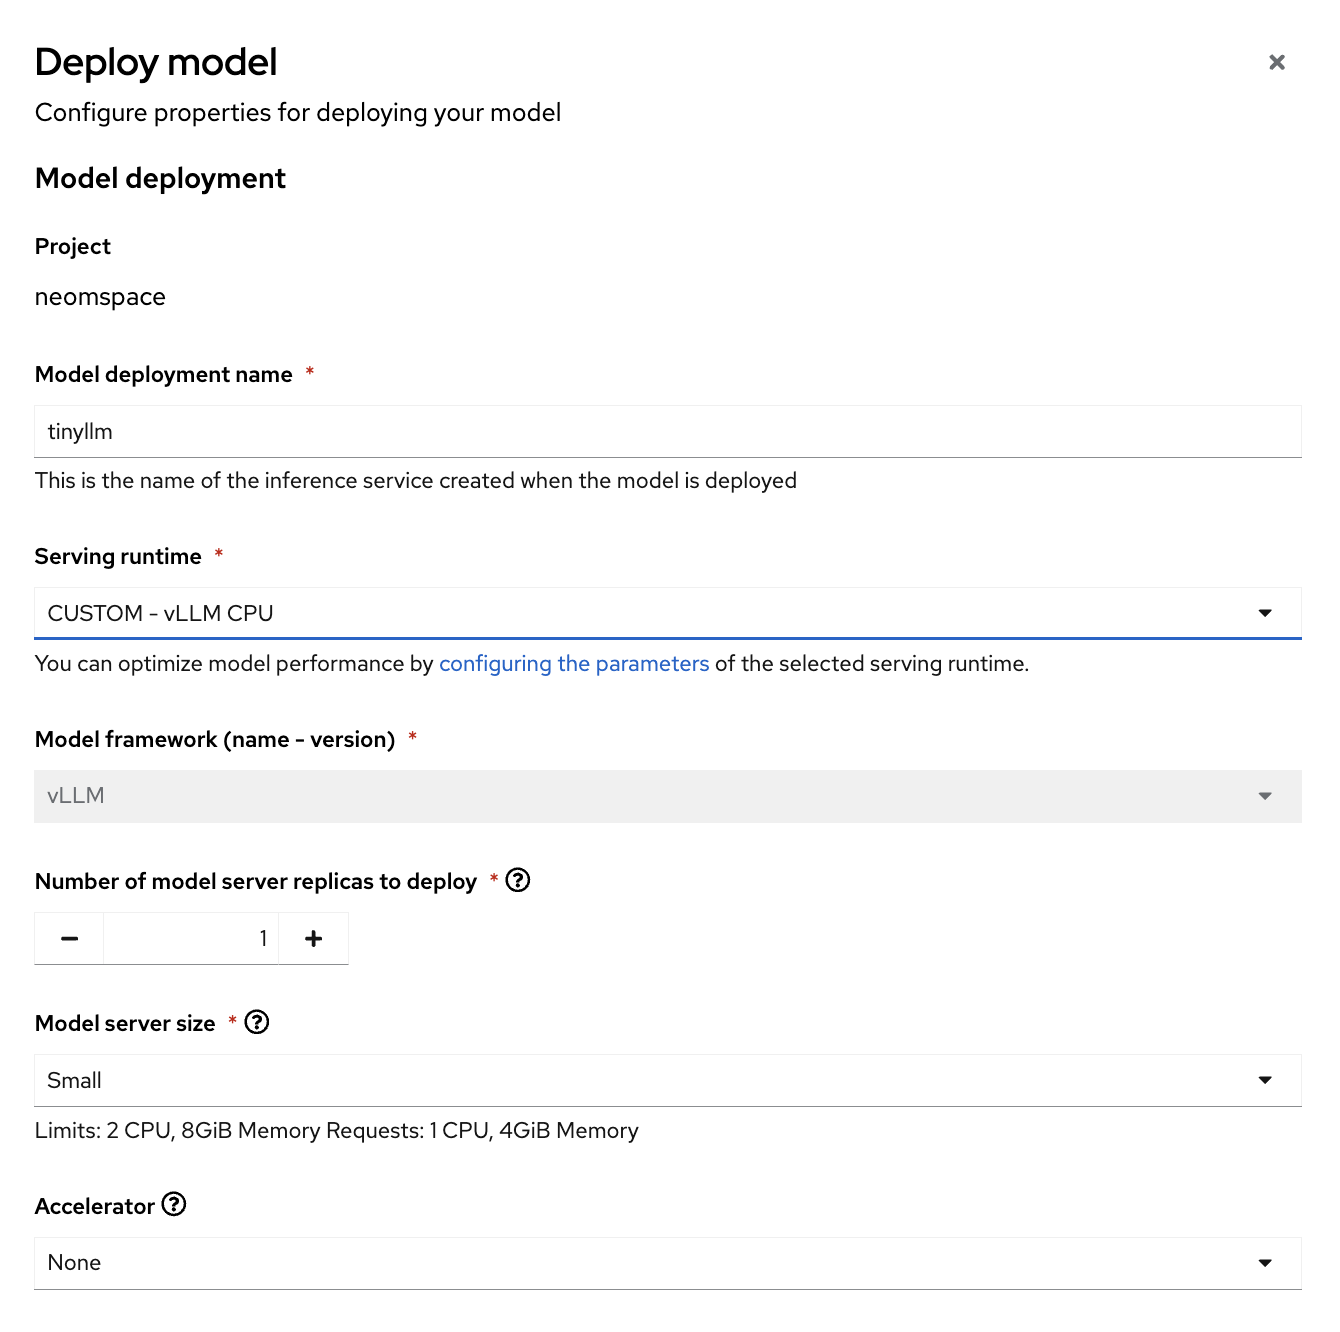
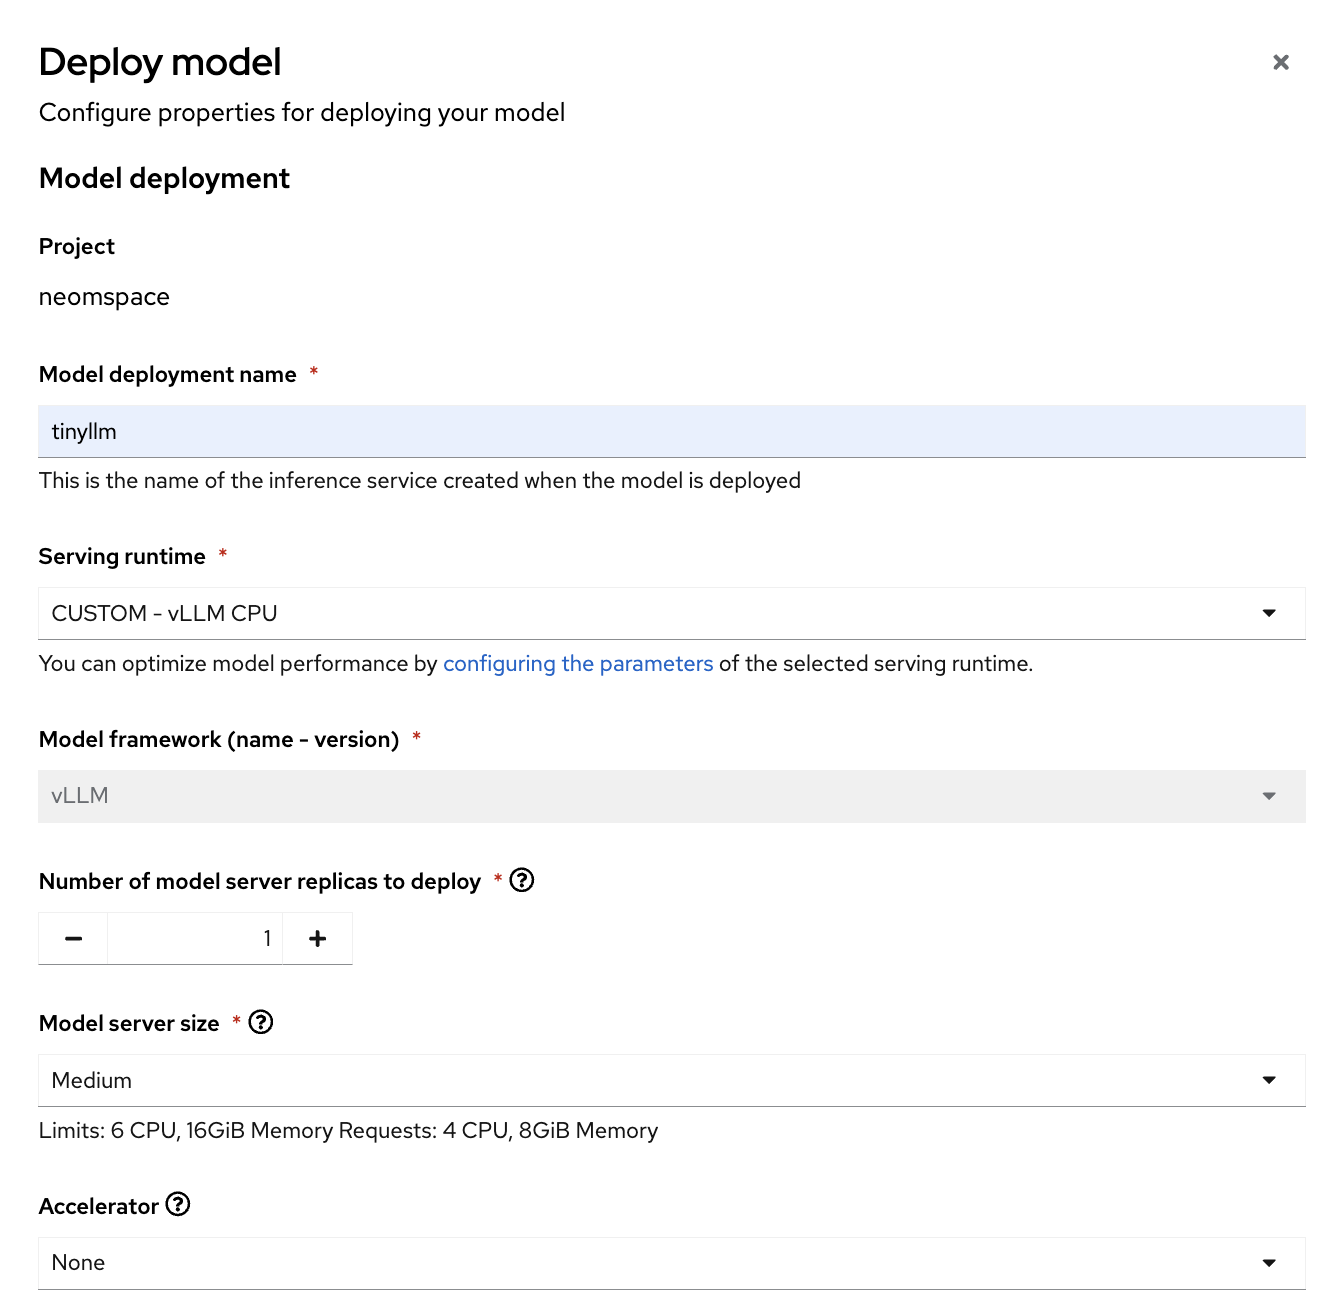
🕶🕵♂💻 g

diff --git a/README.md b/README.md
@@ -45,7 +45,7 @@ Welcome to the Level 4 - Yellow Belt. Let's start!
 
     - **Serving Runtime:** `CUSTOM - vLLM CPU`
 
-   -  **Model Serving Size:** `Small`
+   -  **Model Serving Size:** `Medium`
 
     - **Model route:**
         - Select Make deployed models available through an external route
